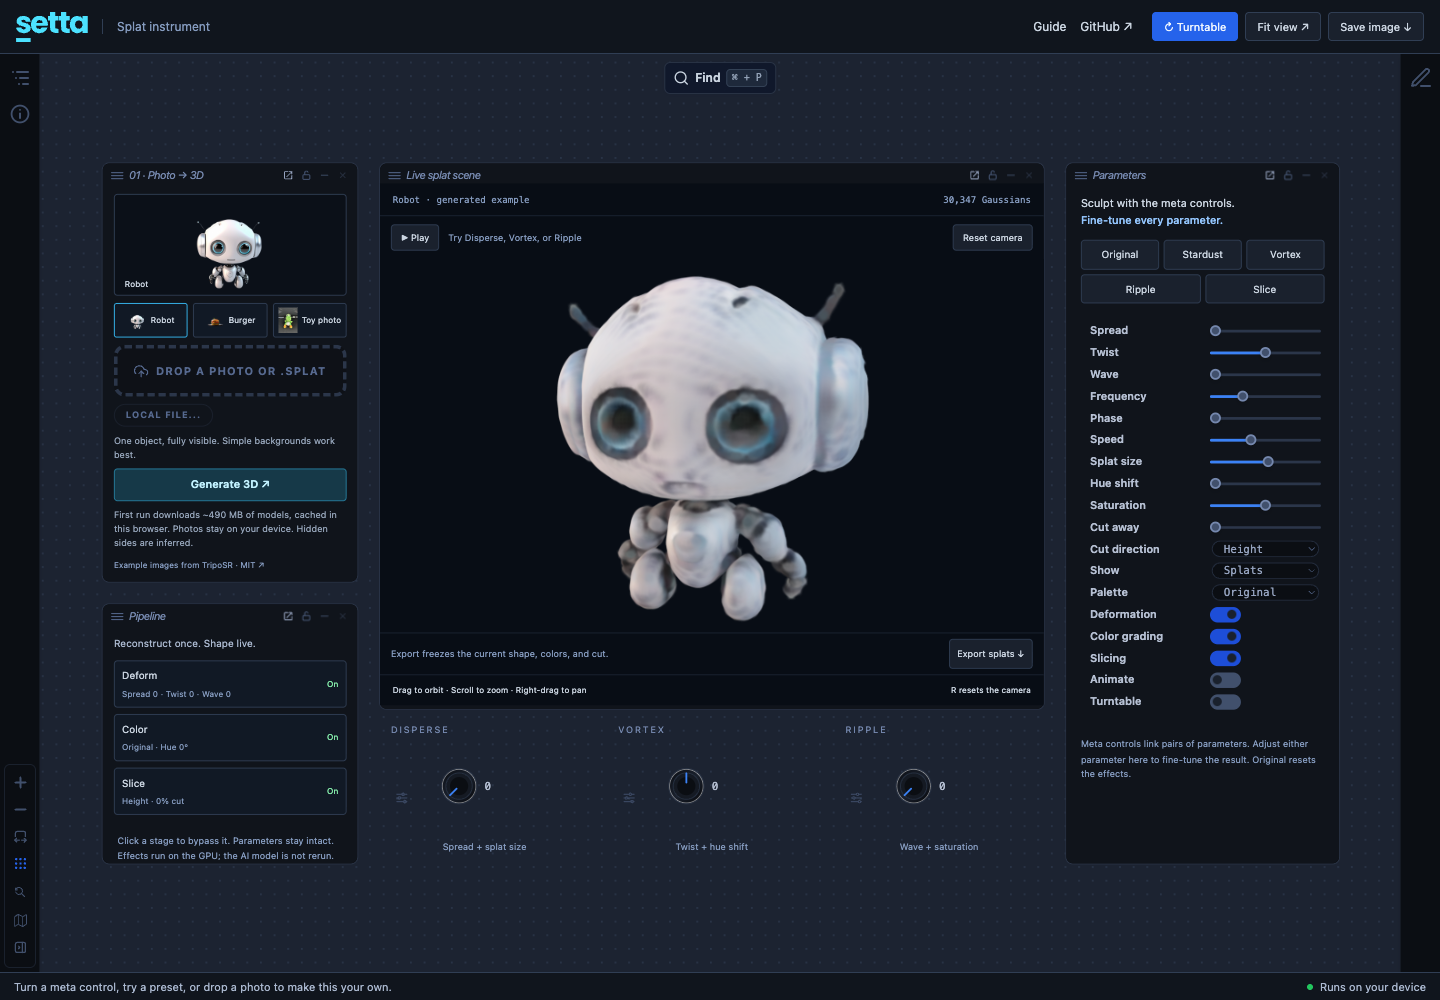
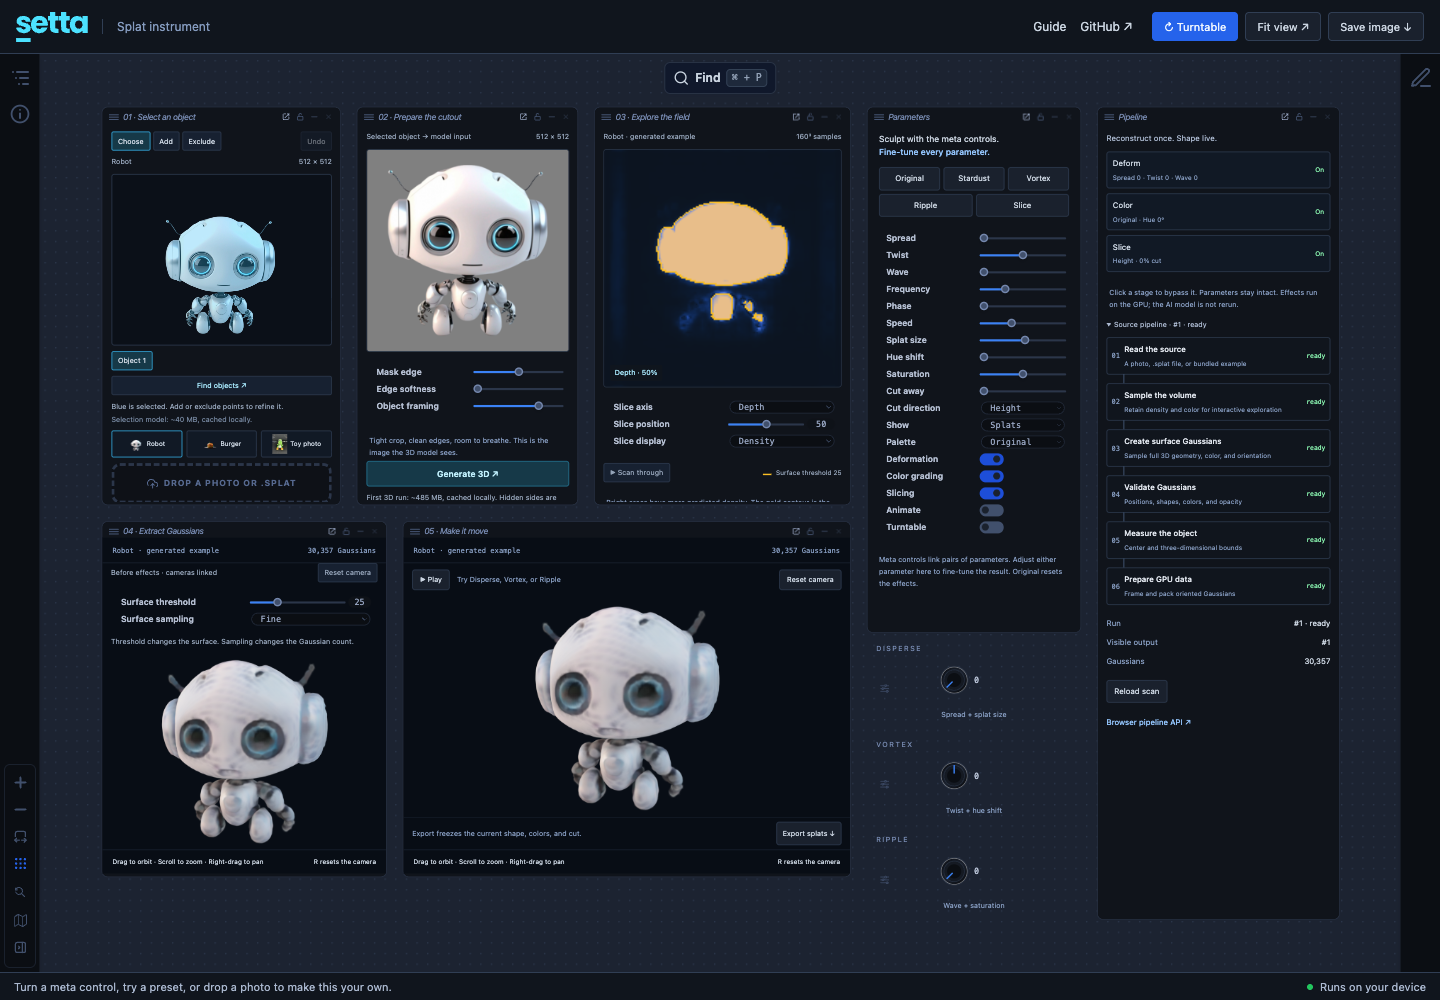
Document the object selection and field exploration playground

diff --git a/README.md b/README.md
@@ -14,7 +14,7 @@ when your tool needs files, Python, or native processes.
 [Browser pipelines](packages/workspace/BROWSER.md) ·
 [Go library](packages/local-backend/README.md)
 
-[![The Setta playground: photo reconstruction, a live Gaussian scene, linked meta controls, and parameters.](images/splat-playground.png)](https://setta.dev)
+[![The Setta playground: object selection, cutout, density field, raw and animated Gaussians, and linked controls.](images/splat-playground.png)](https://setta.dev)
 
 ## The libraries
 
@@ -28,11 +28,13 @@ Use them together or independently. Your application owns its data, computations
 and routes. Setta supplies the workspace and execution building blocks.
 
 The [Gaussian splat playground](https://setta.dev) turns a photo of one object into an inferred 3D
-surface and exports it as Gaussian splats. Setta runs background removal, WebGPU reconstruction,
-surface sampling, and GPU packing in a worker with live progress and cancellation. Native controls
-let you reshape, recolor, animate, and slice the result. Linked meta controls drive multiple
-parameters; export bakes the current appearance into a reusable .splat file. The independent site
-owns its ML models and renderer; the libraries acquire no ML dependencies. Everything runs on static hosting, with no photo upload.
+surface and exports it as Gaussian splats. Select an object with interactive segmentation, refine
+its cutout, scan through the predicted density field, and adjust the extracted surface without
+rerunning AI. Linked raw and final cameras expose what each stage changes. Setta worker pipelines
+provide live progress, cancellation, and recovery; native controls reshape, recolor, animate, and
+slice the result. Meta controls drive multiple parameters, and export bakes the appearance into a
+reusable .splat file. The independent site owns its models and renderer; the libraries acquire no
+ML dependencies. Everything runs on static hosting, with no photo upload.
 
 ## Start building
 

diff --git a/docs/releasing.md b/docs/releasing.md
@@ -71,8 +71,9 @@ preparation does not execute them.
    and its trusted publisher or upload credentials. `uv publish` can upload the selected wheels;
    do not upload temporary development wheels or a source archive.
 5. Deploy `setta-site/dist/` to Cloudflare Pages for setta.dev, following that repository's README.
-   Verify photo generation on WebGPU, model download/cache behavior, cancellation, both captures,
-   linked meta controls, animation/pause, stage bypass, `.splat` import, edited export/re-import,
+   Verify object proposals and positive/negative selection prompts, cutout controls, WebGPU
+   generation, model integrity and cache behavior, cancellation, field slicing, extraction controls,
+   linked raw/final cameras, both captures, meta controls, animation/pause, stage bypass, `.splat` import, edited export/re-import,
    and PNG capture on the production origin. The site includes its tested compiled library
    artifact, so the site build does not depend on registry publication timing.
 6. Attach the promo MP4/poster to the release or social announcement. Retire the old docs hosting
